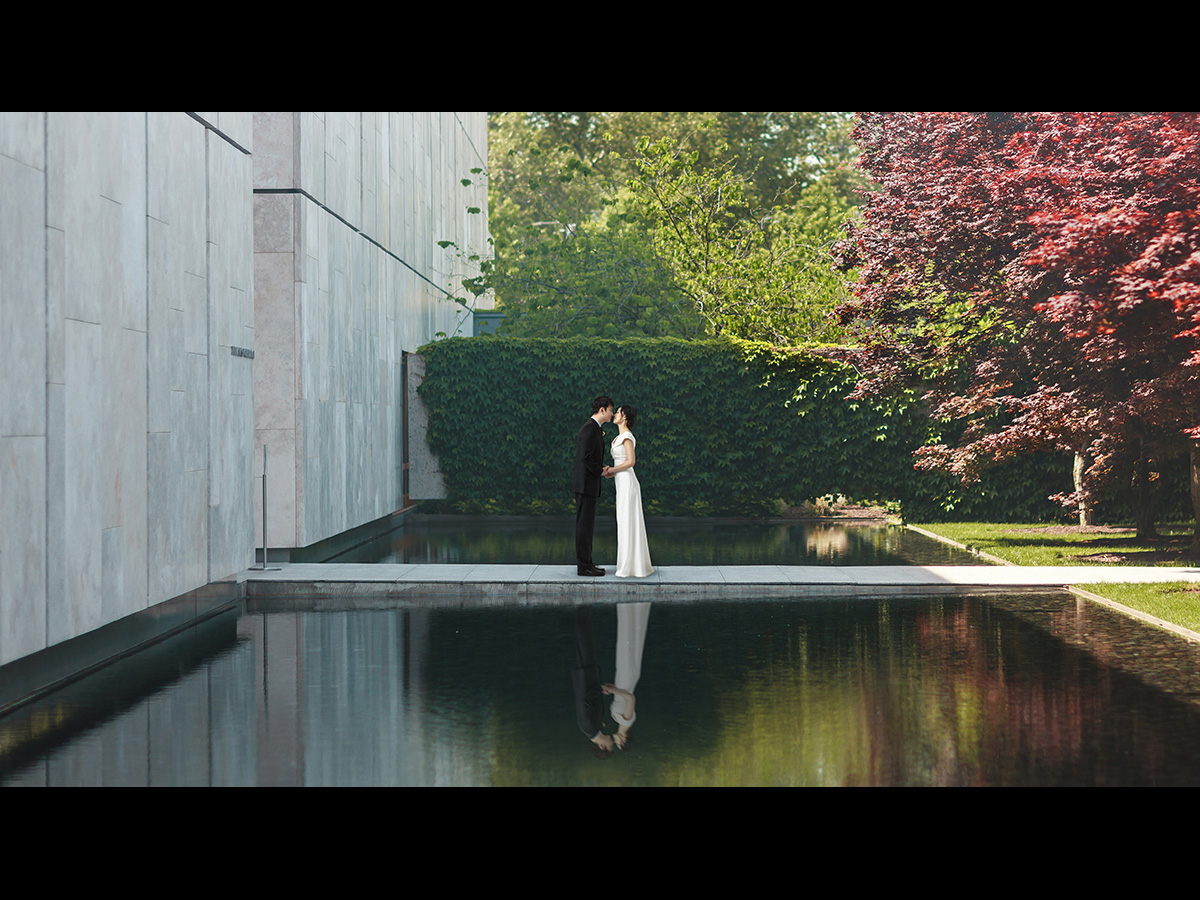
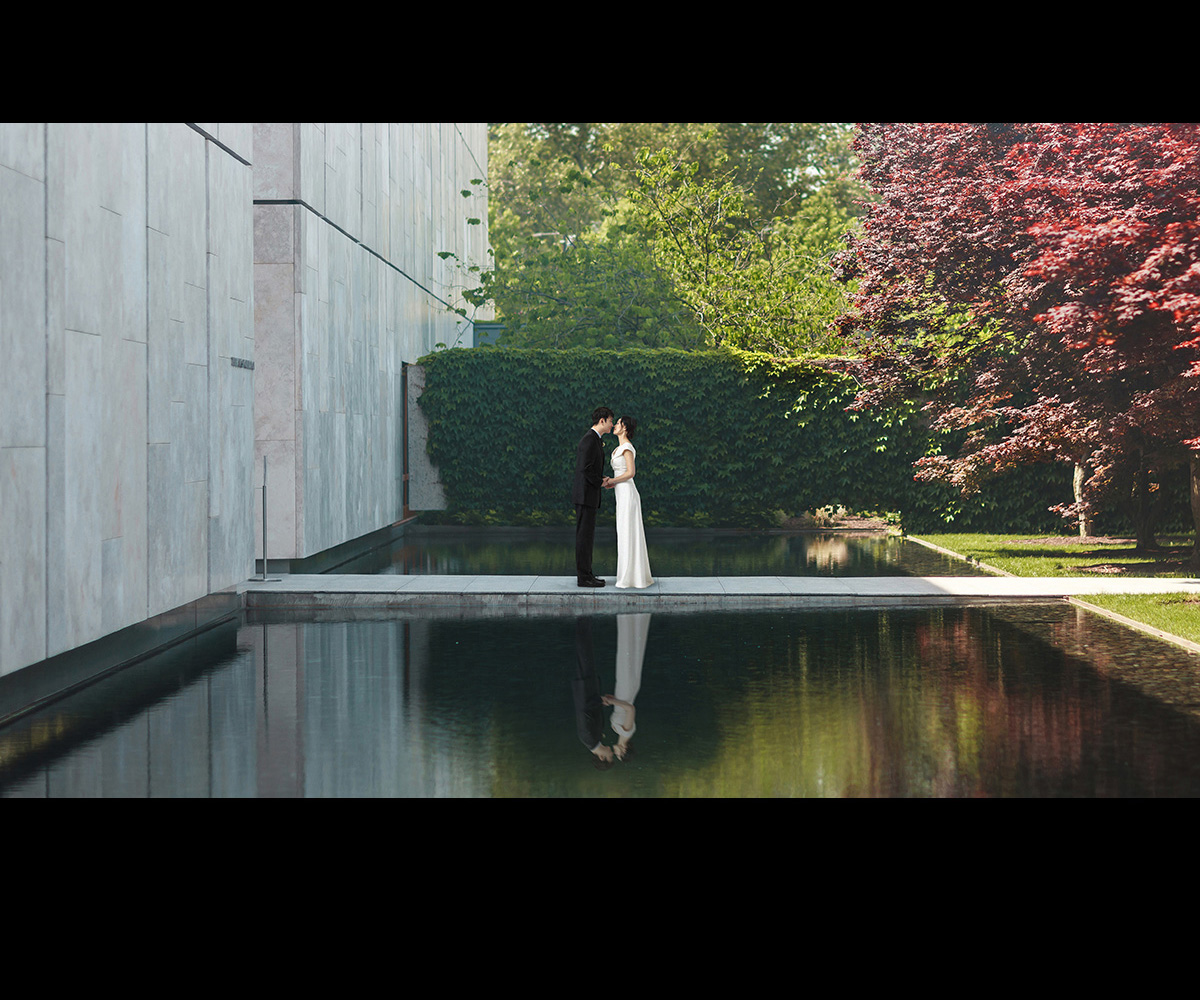
ui updated

diff --git a/index.html b/index.html
@@ -89,11 +89,12 @@
             <!-- <img class='inline_center img_p' src="./img/10.jpg"><BR> -->
             <!-- <img class='inline_center img_l' src="./img/12.jpg"><BR> -->
             <img class='inline_center img_l' src="./img/11.jpg"><BR>
-            <img class='inline_center img_p' src="./img/13.jpg"><BR>
-            <img class='inline_center img_l img_no' src="./img/8.jpg"><BR>
-            <img class='inline_center img_l img_no' src="./img/9_.jpg"><BR>
-            <img class='inline_center img_l img_no' src="./img/40.jpg"><BR>
-            <img class='inline_center img_l img_no' src="./img/41_.jpg"><BR>
+            <img class='inline_center img_p' src="./img/13.jpg"><BR> 
+            <img class='inline_center img_l img_no neg_margin' src="./img/8.jpg"><BR>
+            <img class='inline_center img_l img_no neg_margin' src="./img/9_.jpg"><BR>
+            <img class='inline_center img_l img_no neg_margin' src="./img/41_.jpg"><BR>    
+            <BR><BR>
+            <img class='inline_center img_l img_no no_margin' src="./img/40.jpg"><BR>
             </center>
           <div id='js-btn-mute-2' class="main_flex">
             <button type="submit" onclick="stopMusic()" class="btn_black fi">Stop Music</button>

diff --git a/css/index.css b/css/index.css
@@ -105,7 +105,17 @@ body {
 .no_margin {
   margin-bottom: 0 !important;
   margin-top: 0 !important;
+  padding-bottom: 0 !important;
+  padding-top: 0 !important;
 }
+
+.neg_margin {
+  margin-bottom: -1.5% !important;
+  margin-top: -1% !important;
+  padding-bottom: 0 !important;
+  padding-top: 0 !important;
+}
+
 
 .margin_top_neg {
   margin-top: -2%;
@@ -363,7 +373,7 @@ ul {
 }
 
 .btn_mobile {
-  font-size: 0.9rem;
+  font-size: 1.1rem;
   padding: 10px 16px 8px;
 }
 
